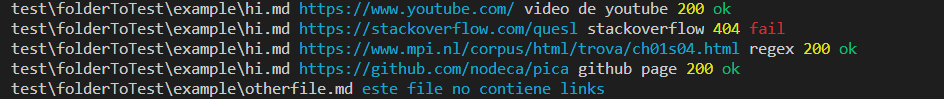
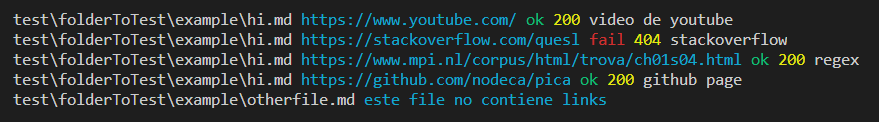
img final

diff --git a/src/cli.js b/src/cli.js
@@ -10,12 +10,12 @@ const getkeyValues = (arrOfObjects) => {
         let properties = '';
         const linkKeys = Object.keys(link);
         properties += `${link['file']} ${chalk.cyan(link['href'])} `;
+        if (linkKeys.length === 5) {
+            link['statusText'] === 'ok' ?  properties += chalk.green(link['statusText']) : properties += chalk.red(link['statusText']);
+            properties += ` ${chalk.yellow(link['status'])} `;
+        };
         if (linkKeys.length > 2) {
             properties += `${link['text']} `;
-        };
-        if (linkKeys.length === 5) {
-            properties += `${chalk.yellow(link['status'])} `;
-            link['statusText'] === 'ok' ?  properties += chalk.green(link['statusText']) : properties += chalk.red(link['statusText']);
         };
         result += `${properties} \n`;
     });

diff --git a/README.md b/README.md
@@ -65,18 +65,11 @@ mdLinks("./some/example.md", { validate: true })
 Se ejecuta de la siguiente manera a través de la terminal:
 
 ```
-$ md-links ./some/example.md
+$ md-links test/folderToTest/example
 ```
 
 ![diagrama](img/byDefault.PNG)
 
-
-```cli
-$ md-links ./some/example.md
-./some/example.md http://algo.com/2/3/ Link a algo
-./some/example.md https://otra-cosa.net/algun-doc.html algún doc
-./some/example.md http://google.com/ Google
-```
 Por defecto no valida si las URLs responden ok o no, solo identifica el archivo markdown, lo analiza e imprime los links que vaya encontrando, junto con la ruta del archivo donde aparece y el texto que hay dentro del link.
 
 #### Options
@@ -87,17 +80,10 @@ Con la opción `--validate`, el módulo hace una petición HTTP para
 averiguar si el link funciona o no.
 
 ```
-$ md-links ./some/example.md --validate
+$ md-links test/folderToTest/example --validate
 ```
 
 ![diagrama](img/validate.PNG)
-
-``` validate
-$ md-links ./some/example.md --validate
-./some/example.md http://algo.com/2/3/ ok 200 Link a algo
-./some/example.md https://otra-cosa.net/algun-doc.html fail 404 algún doc
-./some/example.md http://google.com/ ok 301 Google
-```
 
 El output en este caso incluye la palabra `ok` o `fail` después de
 la URL, así como el status de la respuesta recibida a la petición HTTP a dicha URL.
@@ -113,12 +99,6 @@ $ md-links ./some/example.md --stats
 
 ![diagrama](img/stats.PNG)
 
-```sh
-$ md-links ./some/example.md --stats
-Total: 3
-Unique: 3
-```
-
 También se puede combinar `--stats` y `--validate` para obtener estadísticas que
 necesiten de los resultados de la validación.
 
@@ -128,13 +108,6 @@ $ md-links ./some/example.md --stats --validate
 ```
 
 ![diagrama](img/validatestats.PNG)
-
-```sh
-$ md-links ./some/example.md --stats --validate
-Total: 3
-Unique: 3
-Broken: 1
-```
 
 ##### `--help`
 
